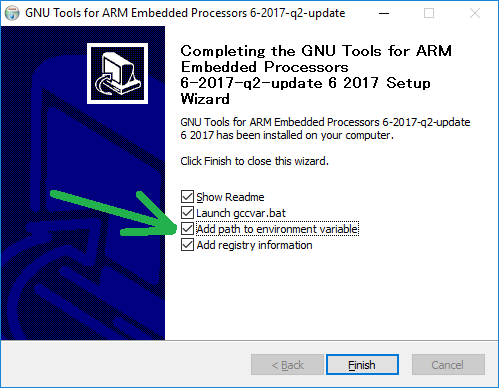
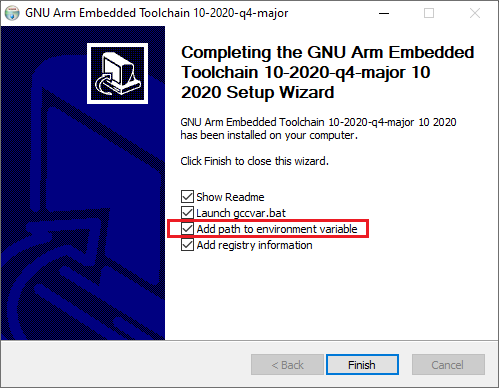
Dev: update Cygwin install with 2020 arm-gcc compiler info

diff --git a/dev/source/docs/building-setup-windows-cygwin.rst b/dev/source/docs/building-setup-windows-cygwin.rst
@@ -103,7 +103,7 @@ Install the GCC compiler
 
       This step is only required if you intend to compile for ARM-based boards.
 
-#. Download and install the gcc-arm-non-eabi compiler from `firmware.ardupilot.org/Tools/STM32-tools <https://firmware.ardupilot.org/Tools/STM32-tools>`__ (`quick link is here <https://firmware.ardupilot.org/Tools/STM32-tools/gcc-arm-none-eabi-6-2017-q2-update-win32-sha2.exe>`__)
+#. Download and install the latest gcc-arm-non-eabi compiler from `firmware.ardupilot.org/Tools/STM32-tools <https://firmware.ardupilot.org/Tools/STM32-tools>`__ (`quick link is here <https://firmware.ardupilot.org/Tools/STM32-tools/gcc-arm-none-eabi-10-2020-q4-major-win32.exe>`__)
 #. Accept the license
 #. Install to the default location
 #. Accept the SSL certificate
@@ -123,7 +123,7 @@ Set up directories/paths and extra packages in Cygwin
 
 #. open and then close the "Cygwin Terminal" application from the desktop or start menu icon.  This creates initialization files for the user in the Cygwin home directory.
 
-#. open the "Cygwin Terminal" application from the desktop or start menu icon.  Enter the following command to set Python 3.6 to be the default Python and then install additional Python packages:
+#. open the "Cygwin Terminal" application from the desktop or start menu icon.  Enter the following command to set Python 3.7 to be the default Python and then install additional Python packages:
 
 ::
 
